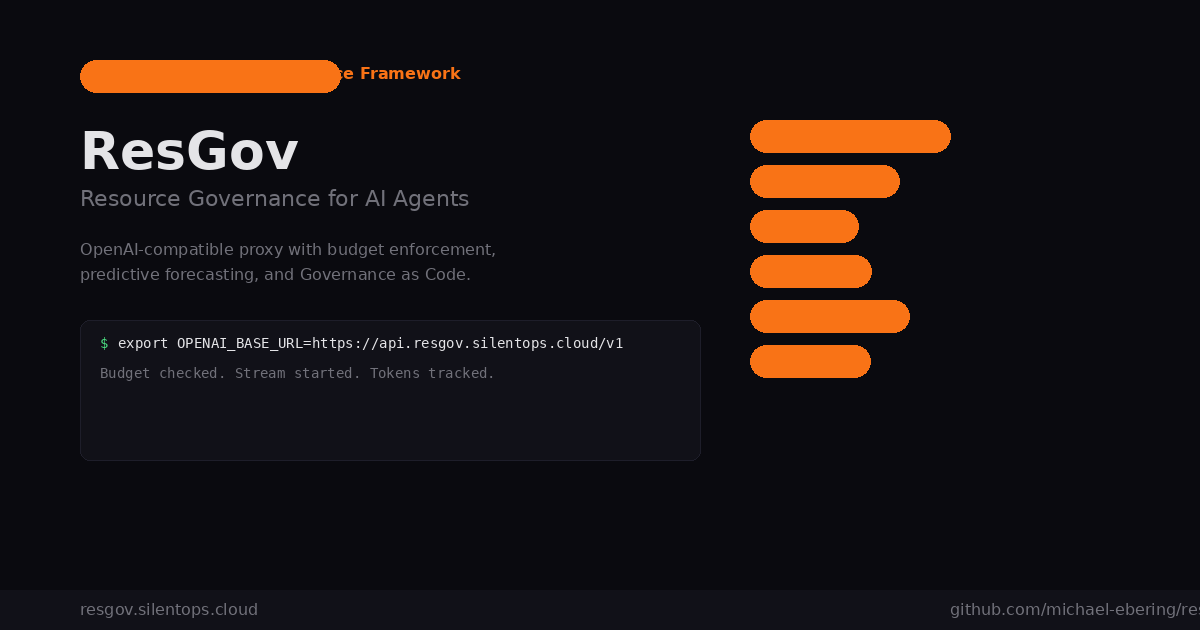
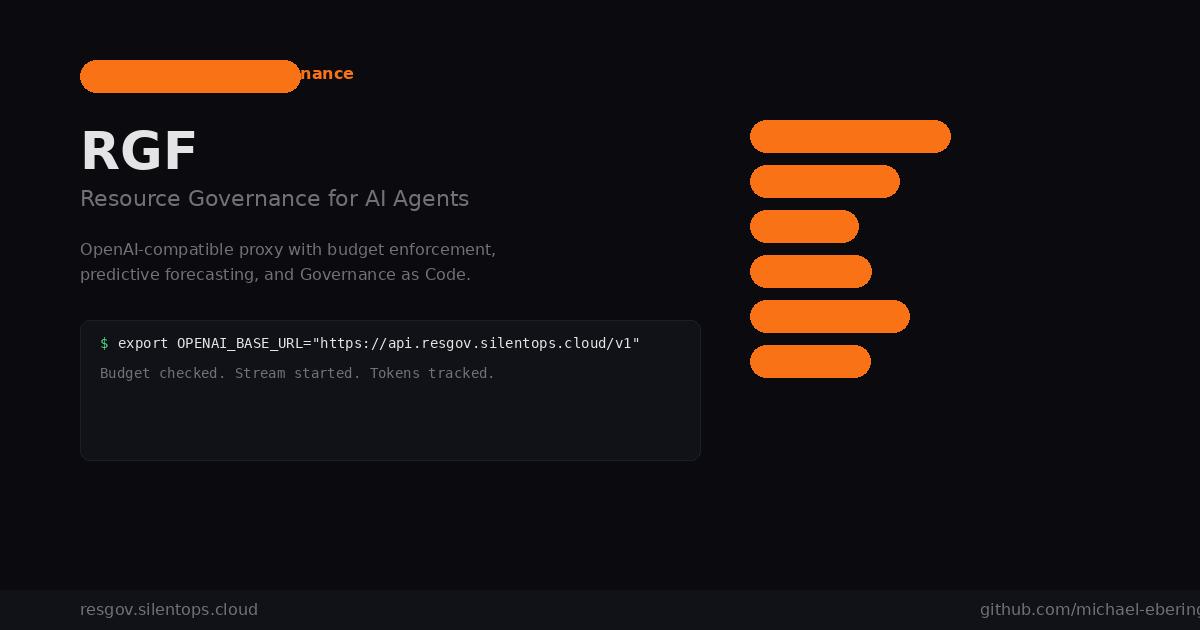
legal compliance: impressum, datenschutz, haftung + local fonts
- Add Impressum (DDG §5) with Kleinunternehmer-regelung + real address
- Add Datenschutzerklärung (DSGVO) - no cookies, server logs, Hostinger Frankfurt
- Add Haftungsausschluss (content, links, copyright)
- Replace Google Fonts with locally hosted Inter fonts (DSGVO)
- Footer: Impressum, Datenschutz, Haftung links
- OG image updated to RGF branding

diff --git a/landing/legal/haftungsausschluss.html b/landing/legal/haftungsausschluss.html
@@ -1,0 +1,63 @@
+<!DOCTYPE html>
+<html lang="de">
+<head>
+<meta charset="UTF-8">
+<meta name="viewport" content="width=device-width,initial-scale=1.0">
+<title>Haftungsausschluss — RGF</title>
+<meta name="robots" content="noindex,follow">
+<link rel="canonical" href="https://resgov.silentops.cloud/haftungsausschluss.html">
+<style>
+*{margin:0;padding:0;box-sizing:border-box}
+:root{--bg:#0a0a0f;--card:#15151f;--border:#2a2a3c;--text:#e4e4e7;--muted:#a1a1aa;--accent:#f97316}
+body{font-family:'Inter',system-ui,-apple-system,sans-serif;background:var(--bg);color:var(--text);min-height:100vh;line-height:1.7;padding:4rem 2rem}
+main{max-width:700px;margin:0 auto}
+h1{font-size:2rem;margin-bottom:0.5rem}
+h2{font-size:1.2rem;margin:2rem 0 0.75rem;color:var(--accent)}
+p,li{color:var(--muted);font-size:0.95rem;margin-bottom:0.5rem}
+a{color:var(--accent);text-decoration:none}a:hover{text-decoration:underline}
+.back{display:inline-block;margin-bottom:2rem;color:var(--muted);font-size:0.85rem}
+</style>
+</head>
+<body>
+<main>
+<a href="/" class="back">← zur Startseite</a>
+<h1>Haftungsausschluss</h1>
+
+<section>
+<h2>1. Inhalt der Website</h2>
+<p>
+  Die Inhalte dieser Website wurden mit größter Sorgfalt erstellt. Für die Richtigkeit,
+  Vollständigkeit und Aktualität der Inhalte wird jedoch keine Gewähr übernommen.
+  Als Diensteanbieter sind wir gemäß § 7 Abs. 1 TMG für eigene Inhalte auf diesen Seiten
+  nach den allgemeinen Gesetzen verantwortlich. Nach §§ 8 bis 10 TMG sind wir jedoch nicht
+  verpflichtet, übermittelte oder gespeicherte fremde Informationen zu überwachen oder nach
+  Umständen zu forschen, die auf eine rechtswidrige Tätigkeit hinweisen.
+</p>
+</section>
+
+<section>
+<h2>2. Verweise und Links</h2>
+<p>
+  Diese Website enthält Links zu externen Websites Dritter, auf deren Inhalte wir keinen
+  Einfluss haben. Deshalb kann für diese fremden Inhalte keine Gewähr übernommen werden.
+  Für die Inhalte der verlinkten Seiten ist stets der jeweilige Anbieter oder Betreiber
+  der Seiten verantwortlich. Die verlinkten Seiten wurden zum Zeitpunkt der Verlinkung auf
+  mögliche Rechtsverstöße überprüft. Rechtswidrige Inhalte waren zum Zeitpunkt der
+  Verlinkung nicht erkennbar.
+</p>
+</section>
+
+<section>
+<h2>3. Urheberrecht</h2>
+<p>
+  Die durch den Websitebetreiber erstellten Inhalte und Werke auf diesen Seiten unterliegen
+  dem deutschen Urheberrecht. Die Vervielfältigung, Bearbeitung, Verbreitung und jede Art
+  der Verwertung außerhalb der Grenzen des Urheberrechts bedürfen der schriftlichen
+  Zustimmung des jeweiligen Autors bzw. Erstellers.
+</p>
+</section>
+
+<p><small>Stand: Mai 2026</small></p>
+</main>
+</body>
+</html>

diff --git a/landing/legal/impressum.html b/landing/legal/impressum.html
@@ -4,7 +4,6 @@
 <meta charset="UTF-8">
 <meta name="viewport" content="width=device-width,initial-scale=1.0">
 <title>Impressum — RGF</title>
-<meta name="description" content="Impressum und rechtliche Angaben zu RGF (Resource Governance Framework) der SilentOps.">
 <meta name="robots" content="noindex,follow">
 <link rel="canonical" href="https://resgov.silentops.cloud/impressum.html">
 <style>
@@ -16,9 +15,6 @@ h1{font-size:2rem;margin-bottom:0.5rem}
 h2{font-size:1.2rem;margin:2rem 0 0.75rem;color:var(--accent)}
 p,li{color:var(--muted);font-size:0.95rem}
 a{color:var(--accent);text-decoration:none}a:hover{text-decoration:underline}
-ul{margin:0.5rem 0 0.5rem 1.2rem}
-hr{border:none;border-top:1px solid var(--border);margin:2rem 0}
-small{color:var(--muted);font-size:0.8rem}
 .back{display:inline-block;margin-bottom:2rem;color:var(--muted);font-size:0.85rem}
 </style>
 </head>
@@ -31,10 +27,10 @@ small{color:var(--muted);font-size:0.8rem}
 <section>
 <h2>Anbieter</h2>
 <p>
-  <!-- Bitte ausfüllen: Name, Adresse -->
-  [Voller Name]<br>
-  [Straße Hausnummer]<br>
-  [PLZ Ort]<br>
+  Michael Ebering<br>
+  SilentOps — Einzelunternehmen<br>
+  Frühlingsstraße 20<br>
+  85221 Dachau<br>
   Deutschland
 </p>
 </section>
@@ -42,30 +38,27 @@ small{color:var(--muted);font-size:0.8rem}
 <section>
 <h2>Kontakt</h2>
 <p>
-  E-Mail: [email redacted]<br>
-  <!-- Telefon optional -->
+  E-Mail: [email redacted]
 </p>
 </section>
 
 <section>
-<h2>Umsatzsteuer-ID</h2>
+<h2>Umsatzsteuer-Identifikationsnummer</h2>
 <p>
-  USt-IdNr. gemäß § 27a UStG: [DE-XXXXXXXXX]<br>
-  <!-- oder: Kleinunternehmerregelung § 19 UStG -->
+  Kleinunternehmer gemäß § 19 UStG. Es wird keine Umsatzsteuer ausgewiesen.
 </p>
 </section>
 
 <section>
-<h2>Streitbeilegung</h2>
+<h2>Online-Streitbeilegung</h2>
 <p>
   Die Europäische Kommission stellt eine Plattform zur Online-Streitbeilegung (OS) bereit:
-  <a href="https://ec.europa.eu/consumers/odr/" target="_blank" rel="noopener">https://ec.europa.eu/consumers/odr/</a><br>
+  <a href="https://ec.europa.eu/consumers/odr/" target="_blank" rel="noopener">ec.europa.eu/consumers/odr</a>.<br><br>
   Wir sind nicht bereit oder verpflichtet, an Streitbeilegungsverfahren vor einer Verbraucherschlichtungsstelle teilzunehmen.
 </p>
 </section>
 
-<hr>
-<p> dieses Impressum betrifft auch die Verwendung auf GitHub <a href="https://github.com/michael-ebering/resgov">github.com/michael-ebering/resgov</a>.</p>
+<p><small>Stand: Mai 2026</small></p>
 </main>
 </body>
 </html>

diff --git a/landing/index.html b/landing/index.html
@@ -40,6 +40,10 @@
 </script>
 <style>
 *{margin:0;padding:0;box-sizing:border-box}
+@font-face{font-family:'Inter';font-style:normal;font-weight:100 900;font-display:swap;src:url(/fonts/Inter-roman.var.woff2) format('woff2')}
+@font-face{font-family:'Inter';font-style:normal;font-weight:600;font-display:swap;src:url(/fonts/Inter-roman.bold600.woff2) format('woff2')}
+@font-face{font-family:'Inter';font-style:normal;font-weight:700;font-display:swap;src:url(/fonts/Inter-roman.bold700.woff2) format('woff2')}
+@font-face{font-family:'Inter';font-style:normal;font-weight:800;font-display:swap;src:url(/fonts/Inter-roman.bold800.woff2) format('woff2')}
 :root{--bg:#0a0a0f;--card:#15151f;--border:#2a2a3c;--text:#e4e4e7;--muted:#a1a1aa;--accent:#f97316;--accent-glow:rgba(249,115,22,0.15);--green:#4ade80;--lila:#b99bff}
 body{font-family:'Inter',system-ui,-apple-system,sans-serif;background:var(--bg);color:var(--text);min-height:100vh;line-height:1.6}
 a{color:var(--accent);text-decoration:none}a:hover{text-decoration:underline}
@@ -247,6 +251,7 @@ code{background:var(--card);border:1px solid var(--border);border-radius:4px;pad
     <a href="https://api.resgov.silentops.cloud/docs">API Docs</a>
     <a href="/impressum.html">Impressum</a>
     <a href="/datenschutz.html">Datenschutz</a>
+    <a href="/haftungsausschluss.html">Haftung</a>
     <a href="https://github.com/michael-ebering/resgov/blob/main/LICENSE">BSL 1.1 License</a>
     <a href="https://silentops.cloud">SilentOps</a>
   </div>

diff --git a/landing/legal/datenschutz.html b/landing/legal/datenschutz.html
@@ -74,7 +74,7 @@ hr{border:none;border-top:1px solid var(--border);margin:2rem 0}
 <section>
 <h2>4. Hosting</h2>
 <p>
-  Diese Website wird auf einem eigenen Server in [Standort/Rechenzentrum, z.B. Falkenstein, Germany]
+  Diese Website wird auf einem eigenen Server bei Hostinger in Frankfurt am Main, Deutschland
   gehostet. Es findet keine Übermittlung personenbezogener Daten an Drittstaaten statt.
 </p>
 </section>